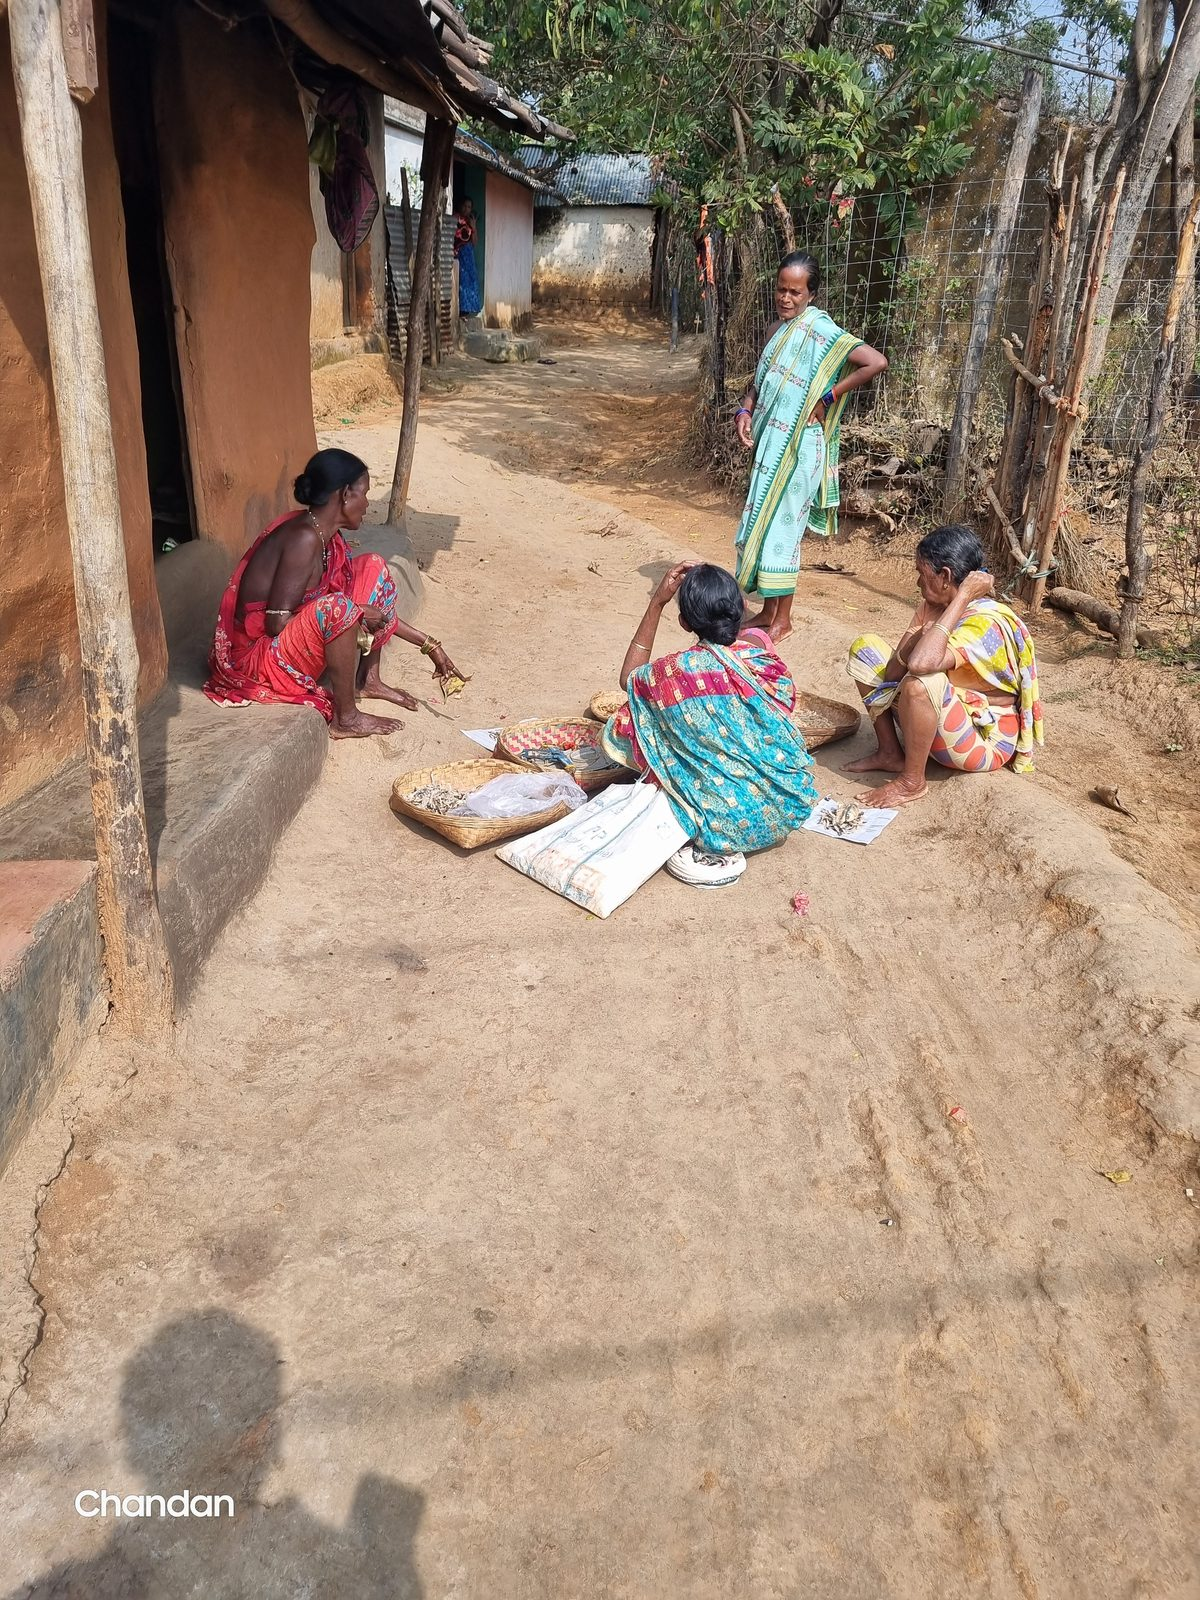
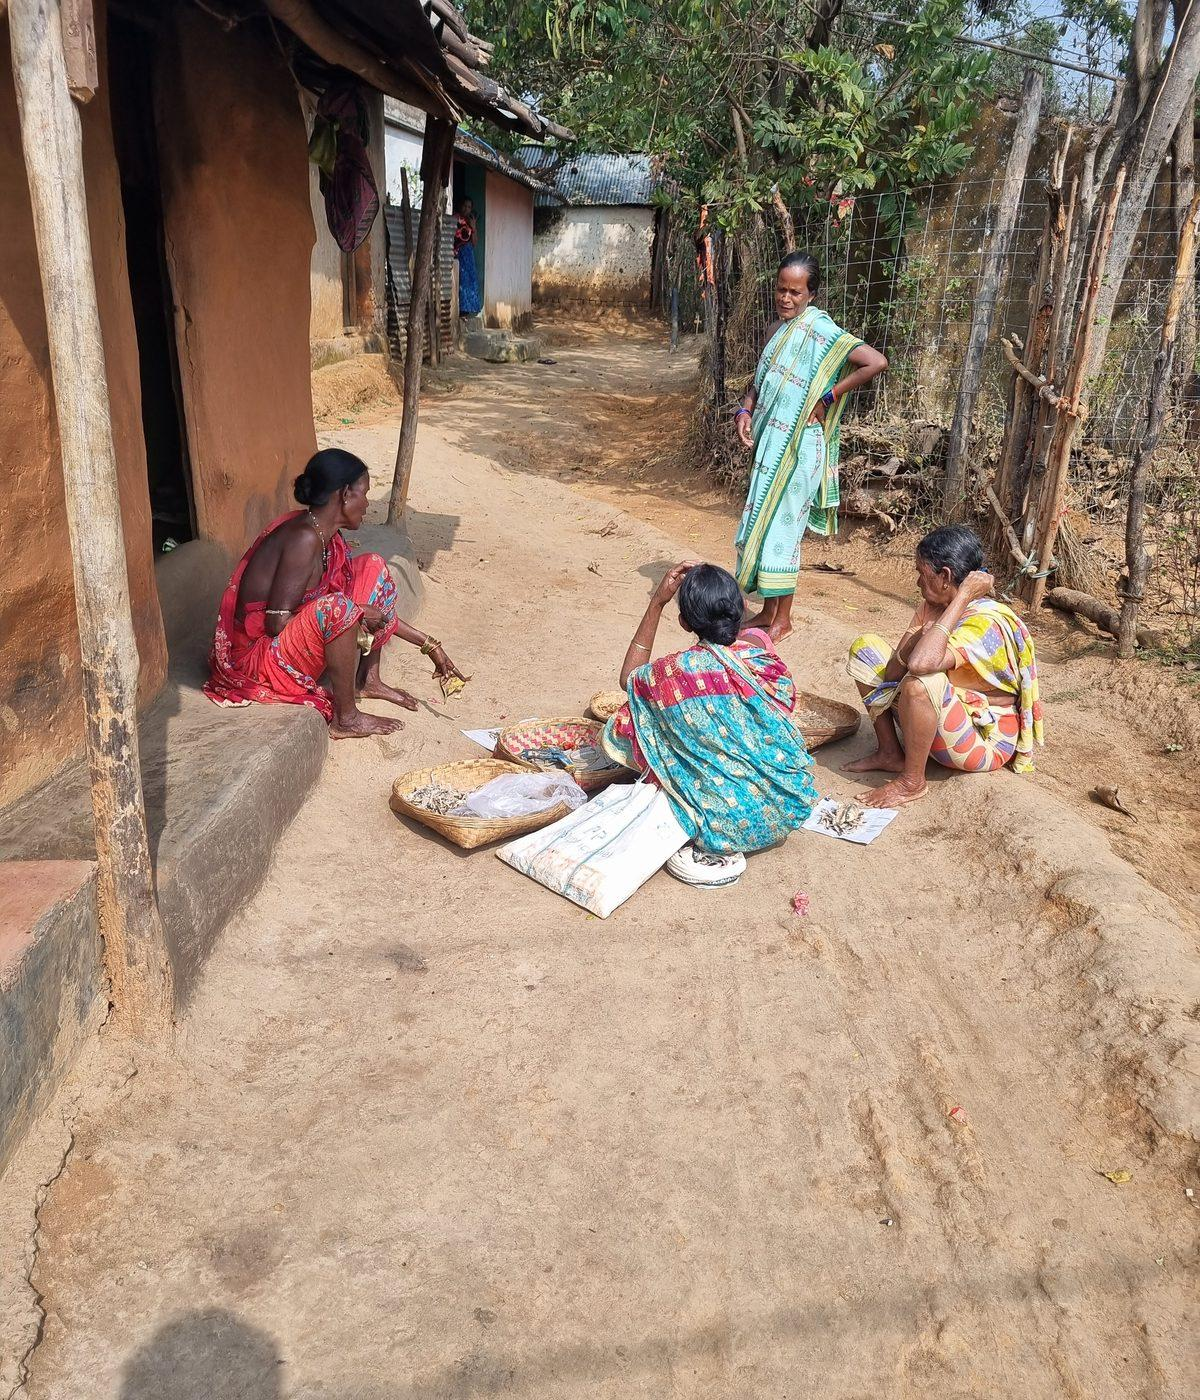
Address QA feedback: CSS, Wording, Safeguarding, Hero captions

diff --git a/days.html b/days.html
@@ -59,11 +59,24 @@
     </div>
   </header>
 
+  <section class="notes" id="safeguarding" style="background: rgba(200, 132, 43, 0.05); padding: 3rem 1.5rem; border-bottom: 1px solid rgba(200, 132, 43, 0.2);">
+    <div class="notes-grid" style="max-width: 800px; margin: 0 auto; text-align: left;">
+      <span class="eyebrow reveal" style="display: block; margin-bottom: 1rem;">Safeguarding &amp; Consent</span>
+      <p style="margin-bottom: 1.5rem; line-height: 1.6;">Before any of the days begin, our absolute baseline is the safety and autonomy of the people who live here. This is a real village, not a set.</p>
+      <ul style="list-style: square; padding-left: 1.5rem; line-height: 1.6; color: var(--band-ink);">
+        <li style="margin-bottom: 0.8rem;"><strong>Schools &amp; Children:</strong> No photography of children is permitted without the documented consent of the headmaster and parents. Access to the school is strictly for observation or requested assistance.</li>
+        <li style="margin-bottom: 0.8rem;"><strong>Homes &amp; Private Spaces:</strong> Entry into a home requires explicit invitation. Taking photographs inside homes is rarely appropriate and requires consent.</li>
+        <li><strong>Markets &amp; Work:</strong> We ask before joining in, and we respect a "no" immediately. This applies to the auto rickshaw, the fields, and the haat.</li>
+      </ul>
+    </div>
+  </section>
+
   <!-- HELD FRAMES — these carry no <img> on purpose. The dashed placeholder in
        site.css (.photo-card:not(:has(img))) is what renders. When a real photograph
        of one of these exists, publish it through _incoming/manifest.csv and paste the
        generated <img> line in here. Nothing else changes. Do not fill these with
        stock or generated images: the site's rule is on the homepage. -->
+  <!-- 
   <section class="gallery-wrap" id="frames">
     <div class="gallery-header inner reveal">
       <span class="eyebrow">no photographs yet</span>
@@ -80,6 +93,7 @@
       <figure class="photo-card photo-card--wide reveal" style="--d:.30s"><figcaption>Walking up into the hills</figcaption></figure>
     </div>
   </section>
+  -->
 
   <!-- THE SEVEN — same <details> pattern as the notes on land.html. -->
   <section class="notes" id="seven">
@@ -89,7 +103,7 @@
       <details class="note reveal" style="--d:.06s">
         <summary>Teach &amp; play</summary>
         <div class="note-body">
-          <p>The school runs whether anyone visits or not. You sit in it.</p>
+          <p>The school runs whether anyone visits or not. Subject to their consent, this may include sitting in on a morning.</p>
           <p>An hour of English if the teacher wants the help, and the rest of it is marbles on packed earth and being shouted at in Kui and Odia by children who have decided you are theirs now.</p>
           <p>Bring nothing. Sweets handed out by a stranger make a crowd, not a friendship, and the teacher has to deal with the afternoon afterwards.</p>
         </div>
@@ -98,8 +112,8 @@
       <details class="note reveal" style="--d:.12s">
         <summary>Shopkeeper at the haat</summary>
         <div class="note-body">
-          <p>The weekly market. You sit behind somebody's stall for a morning — vegetables, dried fish, plastic buckets, whatever that family sells.</p>
-          <p>You will not understand the prices and you will be corrected, loudly and cheerfully, by everyone within earshot. That is the whole experience.</p>
+          <p>The weekly market. This may include sitting behind somebody's stall for a morning, subject to their consent — vegetables, dried fish, plastic buckets, whatever that family sells.</p>
+          <p>If you do, you will not understand the prices and you may be corrected, loudly and cheerfully, by everyone within earshot. That is the whole experience.</p>
           <p>The money is theirs. You are labour, not a partner.</p>
         </div>
       </details>
@@ -116,8 +130,8 @@
       <details class="note reveal" style="--d:.24s">
         <summary>Kheti, in the red earth</summary>
         <div class="note-body">
-          <p>Paddy on the terraces, vegetables on the flat. The hill decides the shape of the field, not the farmer.</p>
-          <p>You will be slow, and someone will redo your row after you leave it. Nobody will say so to your face.</p>
+          <p>Paddy on the terraces, vegetables on the flat. This may include joining the work, subject to the farmer's consent.</p>
+          <p>If you join, you may be slow, and someone might redo your row after you leave it. Nobody will say so to your face.</p>
           <p>The soil is iron red and it does not come out of clothes. Wear what you are willing to lose.</p>
         </div>
       </details>

diff --git a/index.html b/index.html
@@ -13,12 +13,12 @@
 <meta property="og:type" content="website">
 <meta property="og:title" content="Maati Katha — The Weight of Belonging">
 <meta property="og:description" content="A seven-day life-exchange in Sarangada, Kandhamal, Odisha. No fake experiences. Just life as it is.">
-<meta property="og:url" content="https://chandanpanda615-lab.github.io/life-with-love/">
-<meta property="og:image" content="https://raw.githubusercontent.com/chandanpanda615-lab/life-with-love/main/assets/hero.jpg">
+<meta property="og:url" content="https://www.maatirakatha.com/">
+<meta property="og:image" content="https://www.maatirakatha.com/assets/hero.jpg">
 <meta name="twitter:card" content="summary_large_image">
 <meta name="twitter:title" content="Maati Katha — The Weight of Belonging">
 <meta name="twitter:description" content="A seven-day life-exchange in Sarangada, Kandhamal, Odisha. No fake experiences. Just life as it is.">
-<meta name="twitter:image" content="https://raw.githubusercontent.com/chandanpanda615-lab/life-with-love/main/assets/hero.jpg">
+<meta name="twitter:image" content="https://www.maatirakatha.com/assets/hero.jpg">
 <script>document.documentElement.className+=' js'</script>
 <link rel="stylesheet" href="assets/site.css">
 <body class="bg-hero">
@@ -57,6 +57,10 @@
       <p class="hero-kicker">Sarangada &middot; Kandhamal &middot; Odisha</p>
       <h1 class="wordmark">Maati Katha</h1>
       <p class="hero-lede">Seven days in a village in Kandhamal, Odisha. Not a tour — you live there. It isn't open yet.</p>
+    </div>
+    <div class="hero-caption">
+      <span class="cap-desktop">The place. (Monsoon, Sarangada) &middot; Photographed with permission</span>
+      <span class="cap-mobile">The people. (Sarangada) &middot; Photographed with permission</span>
     </div>
     <a class="scroll-cue" href="#status">
       <span>Where this stands</span>

diff --git a/assets/site.css b/assets/site.css
@@ -190,6 +190,18 @@ p + p { margin-top: 1.4em; }
   text-align: center;
 }
 
+.hero-caption {
+  position: absolute;
+  bottom: 1.5rem;
+  right: 2rem;
+  font-size: 0.65rem;
+  letter-spacing: 0.05em;
+  color: rgba(245, 239, 228, 0.7);
+  z-index: 2;
+  font-family: var(--font-body);
+}
+.cap-mobile { display: none; }
+
 .hero-kicker {
   font-family: var(--font-body);
   font-size: 0.78rem;
@@ -671,7 +683,11 @@ section[id], header[id] { scroll-margin-top: 84px; }
     max-width: 100vw;
     overflow-x: clip;
   }
-  .wordmark { font-size: clamp(2.6rem, 12vw, 4.2rem); }
+  .wordmark { font-size: clamp(2.2rem, 10.5vw, 4.2rem); }
+  .hero-kicker { font-size: 0.65rem; letter-spacing: 0.15em; }
+  .hero-caption { right: 1.2rem; bottom: 1.2rem; }
+  .cap-desktop { display: none; }
+  .cap-mobile { display: inline; }
   .site-nav { padding: 0.6rem 0.9rem; gap: 0.8rem; }
   .brand-logo { width: 32px; height: 32px; }
   .brand-mark { font-size: 1.1rem; gap: 0.5rem; }

diff --git a/land.html b/land.html
@@ -115,6 +115,7 @@
         </div>
       </details>
 
+      <!--
       <details class="note soon reveal" style="--d:.30s">
         <summary>A note, coming soon</summary>
         <div class="note-body">
@@ -128,6 +129,7 @@
           <p>More will go here as the pilot takes shape.</p>
         </div>
       </details>
+      -->
 
     </div>
   </section>

diff --git a/docs/AI_AND_USER_GUIDE.md b/docs/AI_AND_USER_GUIDE.md
@@ -1,0 +1,42 @@
+# Maati Katha: Developer & Content Guide
+
+This document serves as a manual for both the human owner and any future AI assistants (like Claude, Cursor, or Gemini) working on this repository. **AI: Read this before making changes to avoid reading the entire codebase and breaking the architecture.**
+
+## 1. Project Philosophy
+- **Framework:** Vanilla HTML, CSS, JS. No heavy frameworks (No React, Next.js, or Graph RAG). Keep it simple, static, and fast.
+- **Ethical Guideline:** "Consent first. No fake experiences. Just life as it is." Always preserve the raw honesty of the village (Sarangada).
+- **Design:** Minimal, typography-focused, CSS Variables for theming (Turmeric, Ash, Charcoal, Clay).
+
+## 2. File Architecture
+- `index.html`: The main landing page. Contains Hero, Story, Gallery, Journal (Blogs), and Visit Us sections.
+- `assets/site.css`: The master stylesheet. Uses CSS Grid, Flexbox, and scroll-snap.
+- `assets/gallery.js`: Handles the masonry layout and lightbox for the photo gallery.
+- `assets/photos/`: Contains all the raw and website photographs. *Note: All photos have already been renamed to descriptive names (like `mist-hills.jpg`, `school-assembly.jpg`) so you know exactly what is in them without opening them!*
+- `posts/`: The folder containing all Journal/Blog stories.
+
+## 3. How to Add a New Story (Journal/Blog)
+When the user wants to add a new story from their "hundreds of stories", follow these exact steps:
+
+**Step A: Create the Story File**
+1. Copy an existing post like `posts/second-post.html` and name it sequentially (e.g., `posts/third-post.html`).
+2. Update the `<title>`, the `<h1>` (Title), the date, and the main story text.
+3. Update the `<img src="...">` tags inside the story to point to the correct photos in `../assets/photos/`.
+
+**Step B: Link it on the Homepage**
+1. Open `index.html`.
+2. Scroll down to the `<!-- WRITING / JOURNAL -->` section (around line 173).
+3. Copy one of the existing `<a href="posts/..." class="writing-card">` blocks and paste a new one.
+4. Update the `href` to point to the new HTML file.
+5. Update the preview `<img src="...">`, the title, and the date in the card.
+
+## 4. How to Update Photos
+- **Homepage Gallery:** The horizontal scrolling gallery in `index.html` (under `<!-- PHOTOGRAPHS -->`) contains `<img src="assets/photos/NAME.jpg">`. To add a new photo, just add an `<img>` tag to that `.horizontal-scroll` div.
+- **Hero Image:** Controlled by `.hero.has-photo` in `site.css`. Currently uses `hero.jpg` and `hero-portrait.jpg` for mobile art direction.
+
+## 5. Deployment
+- This site is hosted on **GitHub Pages** with a custom domain (`maatirakatha.com`). 
+- To push updates, run:
+  `git add .`
+  `git commit -m "Your message"`
+  `git push`
+- If you get a "rejected / fetch first" error, it is because GitHub created a `CNAME` file. Run `git pull --rebase` first, then `git push`.
